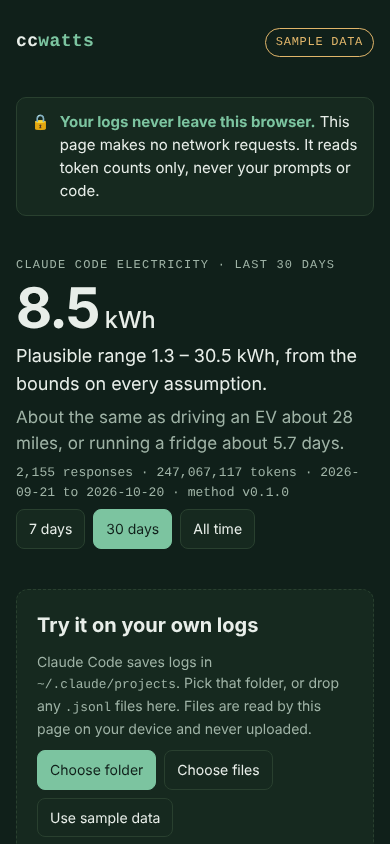
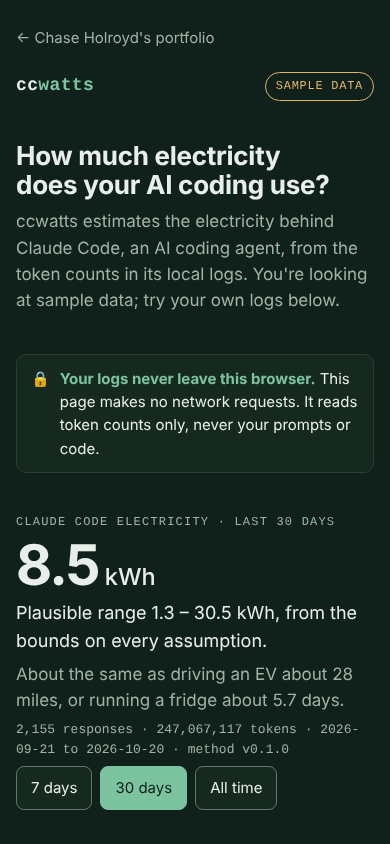
README: link the live playground, qualify npx, current sample-data screenshots (RR-7, RR-14)
Claude-Session: https://claude.ai/code/session_01NWXstrGvGc4FjskV2YNK3m

Changed region(s): [[0.0308, 0.0308, 0.9538, 0.9858], [0.0308, 0.0308, 0.5538, 0.0616], [0.7385, 0.7085, 0.9231, 0.7393]]

diff --git a/packages/web/test/readme.test.ts b/packages/web/test/readme.test.ts
@@ -1,0 +1,22 @@
+import { readFileSync } from "node:fs";
+import { describe, expect, it } from "vitest";
+import { PLAYGROUND_URL } from "@ccwatts/core";
+
+const readme = readFileSync(new URL("../../../README.md", import.meta.url), "utf8");
+
+describe("README tells the same story as the playground (recruiter-ready RR-7, RR-14)", () => {
+  it("links the live playground near the top", () => {
+    expect(readme.split("\n").slice(0, 10).join("\n")).toContain(PLAYGROUND_URL);
+  });
+
+  it("never claims npx works before the package is published", () => {
+    for (const line of readme.split("\n").filter((l) => l.includes("npx ccwatts"))) {
+      expect(line).toMatch(/once .*npm/);
+    }
+  });
+
+  it("shows the playground on sample data, not a dashboard that reads as real history", () => {
+    expect(readme).not.toContain("docs/images/dashboard.png");
+    expect(readme).toContain("docs/images/playground-laptop.png");
+  });
+});

diff --git a/docs/reviews/2026-10-22-recruiter-ready.md b/docs/reviews/2026-10-22-recruiter-ready.md
@@ -27,14 +27,14 @@ Priority: P0 blocks showing it, P1 hurts the impression, P2 polish. Status is up
 | RR-4 | P1 | Share card and LinkedIn post on sample data | On sample data the card says "Estimated on my laptop. No logs left it." and the post says "I measured…". A fake reads as a real measurement (showcase: honest demo). | `sample` flag in `ReceiptInput`: the card shows a "SAMPLE DATA" stamp and "Sample data, not a real measurement"; the post starts with "(Sample data)" and drops "my". | Core tests: sample card contains "SAMPLE DATA" and not "my laptop"; sample post starts with "(Sample data)". Real-data output unchanged. | fixed (#24) |
 | RR-5 | P1 | "Try it on your own logs" | "Choose folder" and "Choose files" are `<label>`s for `hidden` inputs, so Tab skips them (recorded Tab order: windows, Use sample data, share buttons). WCAG 2.1.1. | Visually hide the inputs (still focusable) and show focus on the label. | Tab reaches both pickers; focus ring visible; `check:browser` asserts it. | fixed (#25) |
 | RR-6 | P1 | "Sample data" pill, light mode | Amber text #c08a2e on #f4f2ea is 2.71:1 at 12px (WCAG 1.4.3 needs 4.5:1). It's the label that says the data is fake. | Darker amber for light mode text. | Pill text ≥ 4.5:1 in light and dark (dark is 8.84:1 already). | fixed (#25) |
-| RR-7 | P1 | README | Top of the README never links the live playground; the hero screenshot shows `$ npx ccwatts` while "Try it" says it isn't on npm. A hiring manager arriving from GitHub can't find the demo. | Add "Try it in your browser" link to the playground in the first paragraph; caption says the screenshot is of sample data and `npx` works once it's on npm. | README's first 10 lines contain the playground URL; no unqualified `npx ccwatts` claim. | open |
+| RR-7 | P1 | README | Top of the README never links the live playground; the hero screenshot shows `$ npx ccwatts` while "Try it" says it isn't on npm. A hiring manager arriving from GitHub can't find the demo. | Add "Try it in your browser" link to the playground in the first paragraph; caption says the screenshot is of sample data and `npx` works once it's on npm. | README's first 10 lines contain the playground URL; no unqualified `npx ccwatts` claim. | fixed (#28) |
 | RR-8 | P1 | Chart, phone | Axis text is 11 units in a 720-wide viewBox, about 5.5px on a 390 screen: unreadable. | Draw the chart at the container's pixel width (min 320, max 720) and redraw on resize. | At 390×844 axis text renders ≥ 11px; no horizontal scroll. | fixed (#26) |
 | RR-9 | P1 | All buttons | Buttons are 40px tall (measured), under the studio 44px bar. WCAG 2.5.8 passes (24px) but the studio rule doesn't. | `min-height:44px` on buttons and button-styled labels. | Every button ≥ 44px tall at 390 and 1280. | fixed (#25) |
 | RR-10 | P2 | Method table | "source" link text is the same six times (WCAG 2.4.4 in context passes, but not unique words) and links are 17px tall. | Link text is the source's domain, padded to a 44px target. | Six distinct link texts; each ≥ 44px tall. | fixed (#27) |
 | RR-11 | P2 | Method table, phone | Table forces a sideways scroll inside its box at 390; the Range column is cut off. | Stack each parameter as a card under 600px. | No inner horizontal scroll at 390; all columns readable. | fixed (#27) |
 | RR-12 | P2 | Buttons | Button borders are 1.23:1 against the page (light) and 1.5:1 (dark); WCAG 1.4.11 asks 3:1 for control boundaries. | A separate `--control` border token at ≥ 3:1. | Button border ≥ 3:1 in both themes. | fixed (#25) |
 | RR-13 | P2 | Pickers on a phone | "Choose folder" is the primary button on a phone, where no Claude Code logs live (iOS ignores folder picking). | On narrow screens, add "Your logs are on your computer, so open this page there." | Hint visible at 390, hidden at 1280. | fixed (#27) |
-| RR-14 | P2 | README screenshots | `dashboard.png` shows a "Your history" pill on synthetic data. The caption under the first image covers it, but the image alone reads as real. | Re-shoot the dashboard screenshot with the new header and the sample label. | README images match the current page and say sample. | open |
+| RR-14 | P2 | README screenshots | `dashboard.png` shows a "Your history" pill on synthetic data. The caption under the first image covers it, but the image alone reads as real. | Re-shoot the dashboard screenshot with the new header and the sample label. | README images match the current page and say sample. | fixed (#28) |
 | QA-1 | P2 | Tests | No automated check for keyboard reach, the back link or sample labeling. | Add with RR-1, RR-4, RR-5. | Tests exist and fail before the fix. | open |
 | QA-2 | P2 | CI | `check:browser` (the only real-browser test) runs by hand, not in CI. | Decision for Chase (needs Playwright in CI). | Logged under Decisions to review. | decision |
 

diff --git a/HANDOFF.md b/HANDOFF.md
@@ -31,9 +31,11 @@ _Updated 2026-10-21._
 - **Studio-wide status** (portfolio, domain, every demo, what's waiting on Chase): https://github.com/holroydchase-afk/pm-tools/blob/main/STUDIO-STATUS.md
 - 2026-10-21: the portfolio home page lists ccwatts under "Since Jan 2026: independent product work" with a "Live playground" tag.
 - 2026-10-22: playground gains an H1 ("How much electricity does your AI coding use?"), a lede, and a "← Chase Holroyd's portfolio" link to https://chaseholroyd.com/ccwatts.html. Portfolio fix for `npx ccwatts` (RR-2) sent as an INTAKE block for Product Studio.
+- 2026-10-22: README now links the live playground near the top, and its screenshots show the current playground on sample data (new H1 and back link). If the portfolio reuses README images, use `docs/images/playground-laptop.png` / `playground-phone.png`.
 - **Keep in sync:** when a change here alters what the portfolio page or demo shows (features, numbers, screenshots, privacy claims), tell the portfolio thread ("Portfolio research and upgrade plan") or update the page in `holroydchase-afk.github.io` (`tools/build.py`). Any portfolio change that touches this product adds a dated line here.
 
 ## Done
+- 2026-10-22: RR-7, RR-14: README links the live playground in its second paragraph, says `npx ccwatts` works once it's on npm, and its screenshots are the current playground on sample data (`docs/images/playground-laptop.png` replaces `dashboard.png`; `playground-phone.png` re-shot). `packages/web/test/readme.test.ts` guards all three.
 - 2026-10-22: RR-10, RR-11, RR-13: method-table source links name their site (e.g. theclimatebrink.com) and are 44px tall; under 600px the table becomes one card per parameter (no sideways scroll); phones see "On a phone? Claude Code keeps its logs on your computer…" under the pickers. All three are in `check:browser`.
 - 2026-10-22: RR-8: the daily chart is drawn at its on-screen width (320 to 720 px) and redrawn on resize, so axis labels are 13px tall on a 390px phone instead of 7px. `check:browser` fails if they drop under 11px.
 - 2026-10-22: RR-5, RR-6, RR-9, RR-12: file pickers are reachable by Tab (visually hidden inputs, focus ring on the label), the light-mode "Sample data" pill is 5.27:1, buttons are at least 44px tall with 3:1 borders (`--control`). `npm run check:browser` now also fails on unreachable pickers or buttons under 44px.
@@ -66,7 +68,7 @@ All of M1.1 to M1.8 (old S1 to S7 plus the README; PRs #1, #3 to #10) and the Pa
 - Recruiter-Ready Sprint v2 (Oct 22): review doc `docs/reviews/2026-10-22-recruiter-ready.md`, fix PRs stacked on `claude/project-thread-ofwrnk*`.
 
 ## Exact next step
-- Recruiter-ready fix loop: RR-7 README playground link and RR-14 fresh README screenshots (`docs/images/dashboard.png`, `playground-phone.png`), stacked on the latest `claude/project-thread-ofwrnk-*` branch; then a full re-review round.
+- Recruiter-ready fix loop: full re-review round of the playground on the top branch (`claude/project-thread-ofwrnk-readme`): re-screenshot, ux-reviewer showcase pass, suites 3x; log new rows in the review doc.
 - M2.1, Chase: run on real logs (`npm install && npm run build && node packages/cli/dist/index.js` on main) to confirm totals and `cleanupPeriodDays`.
 - M1.9 playground hosting (PR #12): live at chaseholroyd.com/ccwatts/ since Oct 21 (Pages deploys from `main` succeed).
 - Waiting on Chase (from the Atlas intake, logged in IDEAS.md): approve storing output × context, opt-in carbon or kWh-only, what "metric data" meant for the bench idea.

diff --git a/README.md b/README.md
@@ -2,9 +2,11 @@
 
 **See how much electricity your AI coding uses.** ccwatts reads the logs Claude Code already keeps on your machine and turns token counts into an electricity estimate. The estimate is always a range, and every assumption is sourced.
 
+**[Try it in your browser](https://chaseholroyd.com/ccwatts/)**: it opens on sample data, needs no install or sign-in, and your own logs never leave the page.
+
 ![ccwatts summary in the terminal](docs/images/cli-summary.png)
 
-> Screenshots use synthetic sample data (`fixtures/claude-code/demo.jsonl`), not anyone's real usage.
+> Screenshots use synthetic sample data (`fixtures/claude-code/demo.jsonl`), not anyone's real usage. The `npx ccwatts` command shown works once ccwatts is on npm; until then, run it from a clone (see [Try it](#try-it)).
 
 ## Why it exists
 
@@ -25,9 +27,9 @@ Developers run AI agents all day, and almost nobody can see what that costs in e
 - **`ccwatts receipt`**: a share line, a ready-to-paste LinkedIn post, and a 1200×627 card.
 - **`ccwatts dashboard`**: an offline HTML dashboard of your history, with "Save PNG for LinkedIn".
 
-| Dashboard | Share card | Playground on a phone |
+| Playground on a laptop | Share card | Playground on a phone |
 |---|---|---|
-| ![Dashboard](docs/images/dashboard.png) | ![Receipt card](docs/images/receipt-sample.png) | ![Playground on a phone](docs/images/playground-phone.png) |
+| ![Playground on a laptop, showing sample data](docs/images/playground-laptop.png) | ![Receipt card](docs/images/receipt-sample.png) | ![Playground on a phone, showing sample data](docs/images/playground-phone.png) |
 
 ## How the estimate works
 
